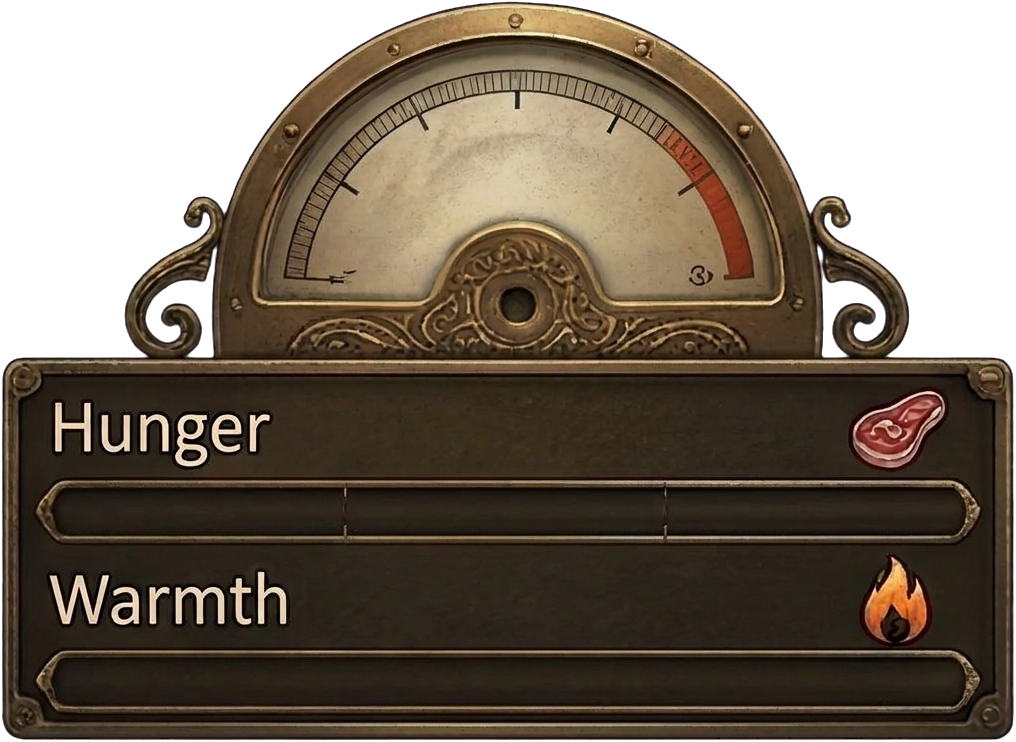
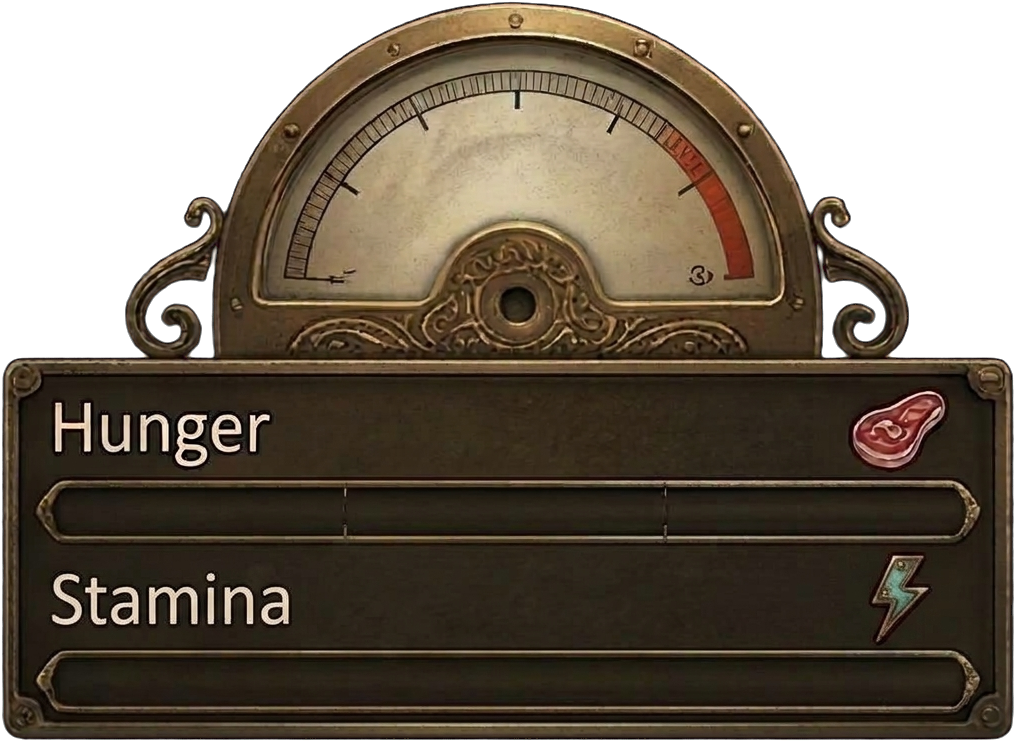
bed and basket

diff --git a/DESIGN.md b/DESIGN.md
@@ -70,7 +70,9 @@ Four eras take the player from scrap to the sky, and each era's technology also 
 
 Early danger comes from the land; later danger comes from the Hollows, and the player's own progress is what calls them.
 
-- **Survival pressure:** hunger and warmth meters (warmth drains faster at night). Planned: seasons with a harsh winter that needs steam heat, and tools that wear out.
+- **Survival pressure:** hunger and stamina meters. Planned: seasons with a harsh winter that needs steam heat, and tools that wear out.
+- **Stamina (0–100):** sprinting costs 12 a second, a jump 8, and a tool swing (chopping with the axe, mining with the pickaxe) 6. It comes back at 20 a second once none has been spent for 1 second. At 0 you're winded: no sprinting or swinging until it's back above 15 (walking and jumping still work). Hunger lowers it: well fed you have the full 100 and full regen; starving, at most 50 and half regen, easing in between. A night's sleep refills it. Saved with the game.
+- **Warmth (switched off for now):** warmth and the cold are kept in the code but switched off with one project setting, `game/survival/warmth_enabled` (false). While off there's no warmth meter, no cold damage or slowdown, and no freezing, sheltered or indoors messages; fires still give light, and the shelter and closed-room checks still run (beds and settlers will need them). Older saves load without their warmth. **Warmth returns for cold regions (such as the Frost Highlands) and winter**: then it drains at night and in the open, more slowly under a roof, not at all in a closed room, and fires, the fireplace and a held torch warm you; it will need its own meter on the HUD.
 - **Wolves:** the first hostile wildlife, in era 1.
 - **The Hollows:** drawn to heat, smoke, and running machinery. A campfire barely registers; a forge brings scouts; boilers bring raiding parties; the airship dock brings a major assault.
 - **Loot:** defeated Hollows drop gears, copper plating, springs, and eventually construct cores, which feed the tech tree.
@@ -122,7 +124,7 @@ The player builds freely with Valheim-style snap pieces, and plots turn those st
 - **Shrinking a plot:** pieces that would fall outside glow red. Confirming shows a warning, e.g. "6 pieces will be removed and refunded to your storage. Proceed?" (Proposed destination: warehouse, else nearest chest with room, else a crate dropped at the plot.)
 - **Built so far (first version, T1):** the build menu's Plots tab lists six plot types, each a `PlotType` file in `buildables/plots/` (requirements and smallest size are data; there's no largest): House (roofed, door, 1+ bed, campfire or fireplace; at least 6×6 m; houses one settler per bed), Forager's Hut (roofed, foraging basket, storage chest; 6×6), Woodcutter's Hut (roofed, chopping block, tool rack; 6×6), Stone Gatherer's Hut (roofed, stone sorting table, tool rack; 6×6), Storehouse (roofed, door, 2+ storage shelves; 8×8) and Workshop (roofed, workbench; 6×6). All unlock with the hammer and cost nothing. Drawing: click one corner on the ground and then the opposite corner; the rectangle stretches between them in 1 m steps with its size floating over it ("8 × 6 m"), red with the smallest size in its label (and it won't place) while it's too small. Before the first click, R turns the drawing direction 90° and Alt + wheel 15°, to line plots up with buildings. Right-click or Esc cancels. Once placed, a plot shows nothing in the world. Plot view (P with the hammer out, and on anyway while the build menu's Plots tab is open or a plot is being drawn, moved or resized) shows every plot's faint glowing outline on the ground, green while it's working and amber while it's missing requirements (no labels in the world). With the hammer out, a plot tracker on the right of the screen (a small plaque, vertically centred, fading in and out, hidden while a menu is open) shows the plot you're standing in, or the one you aim at in plot view (up to 20 m): its name, type and capacity, "Working" in green or "Missing requirements" in amber, and its checklist ("✓ Bed 1/1", "✗ Door 0/1"). When a plot turns working, a message says so ("House is now working"). In plot view, E aimed at the ground or a piece inside a plot opens its panel (brass plaque): editable name, type, size, capacity, a live checklist with ticks and crosses ("Roofed ✗ (Bed is not under a roof)"), "Working" or "Missing requirements", Move and Remove plot. Resizing, in plot view: aim at an edge or corner (it lights up), hold left-click and drag; the outline follows in 1 m steps, never below the smallest size, owned pieces that would end up outside glow red, and letting go asks before taking them down for a refund to the inventory (overflow left in a bundle at your feet). Ownership: a piece, furniture item, workbench, chest or campfire placed with its middle inside a plot belongs to it (in an overlap, the plot whose middle is nearest the player); the placement panel always says "Building for: name". A new or enlarged plot also takes in unowned things inside it. "Roofed" means every required furniture item has the plot's own roof (or a floor above, as for shelter) straight over it. Move lifts the plot and its own pieces into a green/red preview (red if anything it owns would bump into something, or the ground under it is steeper than 30°); R turns it 90°. Remove plot keeps its pieces standing, unowned. Requirements are checked again whenever something is placed, removed, moved or resized. Plots, names, sizes, turns and owners are saved (older saves keep their plots, even ones smaller than the new minimum). Code: `building/plots/` and `ui/plot_panel.gd`.
 - **Chimneys:** a chimney section (6 stone, 2 sticks, 1 rope) and a chimney top (6 stone) in the Furniture tab, unlocked by building a fireplace; Meshy models fitted to the fireplace chimney's 0.41 m square (a section 1 m tall, the top 0.4 m), their tops and bottoms flattened so they stack cleanly. A section snaps onto the fireplace's chimney or another section, the top onto either; Page Up/Down and turning work as for other pieces, and with snapping off they go anywhere. Chimneys pass through roofs, roof corners, ridge caps and overhangs without showing red (walls, floors and furniture still block). While the fireplace burns, soft light grey smoke (lit from behind as well as in front, so it never goes dark) rises from the top of its stack (the top, or the highest section), widening and fading, drifting a little with a light breeze. The fireplace burns a layered particle fire (orange licks round a yellow core, a few sparks) on logs in its hearth (`building/fire_effects.gd`), and its light is a soft warm amber, faint by day and brighter at night, flickering. Furniture, the workbench, chest and campfire standing in a room, and a chimney through its roof, don't break the "closed room" check.
-- **Furniture models:** the chopping block, tool rack, storage shelf, fireplace and workbench show Meshy models, each fitted evenly into the piece's solid box (sized to the model's proportions, so collision, placement and backing onto walls match what you see; the fireplace's own flames and light burn in its hearth). The bed, foraging basket and stone sorting table are still placeholder shapes. Build menu icons are rendered from the real pieces and models.
+- **Furniture models:** the chopping block, tool rack, storage shelf, fireplace, workbench, bed (the Rustic Bed: a full 2 m long and, at its own proportions, 1.34 m wide, turned so its headboard is at the back against the wall) and foraging basket (0.62 m across its rope handle) show Meshy models, each fitted evenly into the piece's solid box (sized to the model's proportions, so collision, placement and backing onto walls match what you see; the fireplace's own flames and light burn in its hearth). The stone sorting table is still a placeholder shape. Build menu icons are rendered from the real pieces and models.
 - **Furniture (first version):** the Furniture tab holds simple placeholder furniture that counts toward plot requirements by name: bed (6 planks, 4 plant fiber), foraging basket (4 plant fiber, 2 sticks), chopping block (2 wood), tool rack (3 planks, 2 sticks), stone sorting table (4 planks, 2 stone), storage shelf (4 planks) and fireplace (6 stone), plus the campfire, workbench and storage chest. The new pieces unlock with the first planks, demolish for a full refund and save. Furniture (and the workbench, chest and campfire) stands on whatever floor, foundation or ground is under the crosshair; with snapping on it sits on a 0.5 m grid in the floor's own frame in 90° turns, and the bed, shelf, tool rack and workbench back up flush against a wall they're close to. It never overlaps other furniture or walls (red instead). The fireplace burns without fuel and warms like a campfire (6 m), so inside a closed house it keeps you warm.
 
 **Templates**
@@ -169,16 +171,16 @@ The first-era survival loop is playable: walk, gather, chop, eat, build a fire, 
 
 **Working**
 
-- First-person movement, mouse look, and jumping; hold Shift to sprint (1.7× walking speed, forward and diagonally forward only, started on the ground; a running jump keeps its speed; the view widens slightly; hunger drains 1.5× as fast; no stamina yet); you step up onto ledges up to 0.45 m (floors on the ground, low foundations, stair steps) and down off them without a hop, the camera easing through each step, while taller edges, walls and steep ground still need stairs or a jump (the body is a cylinder 0.8 m across and 2 m tall)
+- First-person movement, mouse look, and jumping; hold Shift to sprint (1.7× walking speed, forward and diagonally forward only, started on the ground; a running jump keeps its speed; the view widens slightly; hunger drains 1.5× as fast; costs stamina, see Threats); you step up onto ledges up to 0.45 m (floors on the ground, low foundations, stair steps) and down off them without a hop, the camera easing through each step, while taller edges, walls and steep ground still need stairs or a jump (the body is a cylinder 0.8 m across and 2 m tall)
 - Day/night cycle with warm sunsets and dark nights
 - Real-world heightmap terrain in chunks, with water filling the low ground
 - Visual pass: slope-based ground coloring, grass, rocks, improved trees, water shader, haze
 - Gathering scrap, coal, and berries with E, with an on-screen counter
 - Tree chopping: 4 hits, the tree falls, a stump remains, +3 wood
-- Hunger and warmth meters; eat berries with F; build a campfire with B for 3 wood
+- Hunger and stamina meters (warmth is switched off for now; see Threats); eat berries with F; build a campfire with B for 3 wood
 - Inventory screen on Tab with 20 slots
 - Free building with snapping wooden pieces, square and round, furniture, and T1 plots that turn buildings into working ones (see Building system)
-- Compact steampunk-brass HUD, laid out at 1920 × 1080 and scaling with the window (same look at 1080p and 4K): the brass vitals panel bottom left (`assets/ui/vitals_panel.png`: a half-gauge whose needle shows warmth, red zone at full, over hunger and warmth channels that fill gold and orange-red with soft ends), the brass compass with its small clock mounted on the action bar's left end (the bar's own left scrollwork is trimmed off), drawn on top, its brass right up to slot 1's frame and its loose side curls tucked under it (`compass_clock.png`: a needle pointing north relative to where you face, hour and minute hands showing the in-game time), a thin brass ring crosshair, what E would do with the thing you aim at in a line under the crosshair, and a centred row of the controls that apply right now just above the action bar (label and key badge pairs; "Eat Berries [F]" while carrying berries, "Demolish [MMB / Hold X]", "Snap [Z]" and "Plot view [P]" with the hammer out), with a small panel above it while building or demolishing (piece icon, name, cost or refund, one line of details). The action bar is the brass bar art (`action_bar.png`) with a slot picture over each opening: a plain slot when it holds something, a gear slot when empty, and a gold, glowing slot for the selected one. Menus are drawn 1.5× (`MenuStyle.MENU_SCALE`). The blank brass plaque (`plaque.png`, 9-sliced just inside its corner rivets, edges stretched) frames the build placement panel, build menu, inventory, crafting and pause menus; the title screen alone uses the ornate `panel_frame.png`. Buttons, slots and key badges keep a restrained code-drawn brass style (`ui/brass_style.gd`: thin bevelled worn-gold borders, recessed slots, a faint gear in empty inventory slots). Anything missing from `assets/ui/` is drawn in code
+- Compact steampunk-brass HUD, laid out at 1920 × 1080 and scaling with the window (same look at 1080p and 4K): the brass vitals panel bottom left (`assets/ui/vitals_panel.png`: a half-gauge whose needle shows stamina, red zone at full, over hunger and stamina channels that fill gold and blue-green with soft ends, labelled "Hunger" with a steak and "Stamina" with a lightning bolt), the brass compass with its small clock mounted on the action bar's left end (the bar's own left scrollwork is trimmed off), drawn on top, its brass right up to slot 1's frame and its loose side curls tucked under it (`compass_clock.png`: a needle pointing north relative to where you face, hour and minute hands showing the in-game time), a thin brass ring crosshair, what E would do with the thing you aim at in a line under the crosshair, and a centred row of the controls that apply right now just above the action bar (label and key badge pairs; "Eat Berries [F]" while carrying berries, "Demolish [MMB / Hold X]", "Snap [Z]" and "Plot view [P]" with the hammer out), with a small panel above it while building or demolishing (piece icon, name, cost or refund, one line of details). The action bar is the brass bar art (`action_bar.png`) with a slot picture over each opening: a plain slot when it holds something, a gear slot when empty, and a gold, glowing slot for the selected one. Menus are drawn 1.5× (`MenuStyle.MENU_SCALE`). The blank brass plaque (`plaque.png`, 9-sliced just inside its corner rivets, edges stretched) frames the build placement panel, build menu, inventory, crafting and pause menus; the title screen alone uses the ornate `panel_frame.png`. Buttons, slots and key badges keep a restrained code-drawn brass style (`ui/brass_style.gd`: thin bevelled worn-gold borders, recessed slots, a faint gear in empty inventory slots). Anything missing from `assets/ui/` is drawn in code
 
 **Known issues**
 
